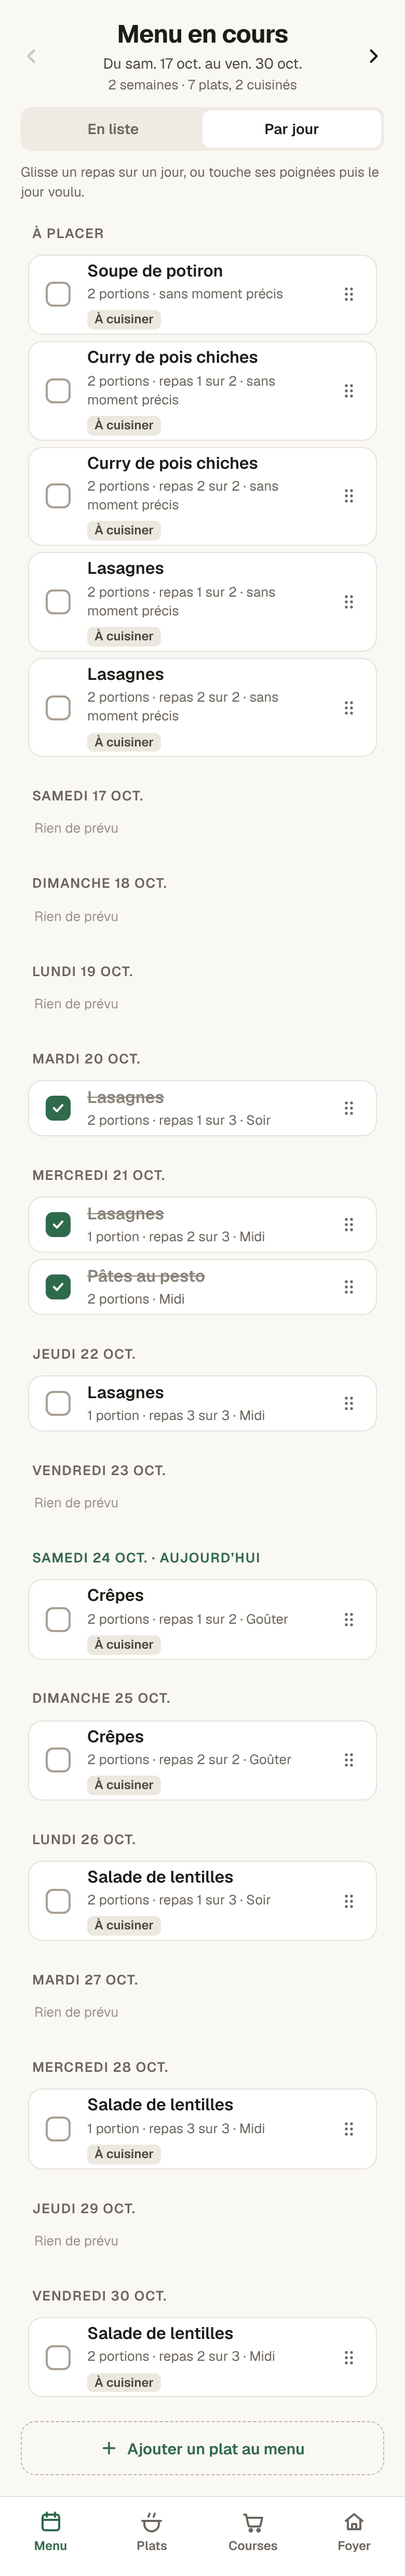
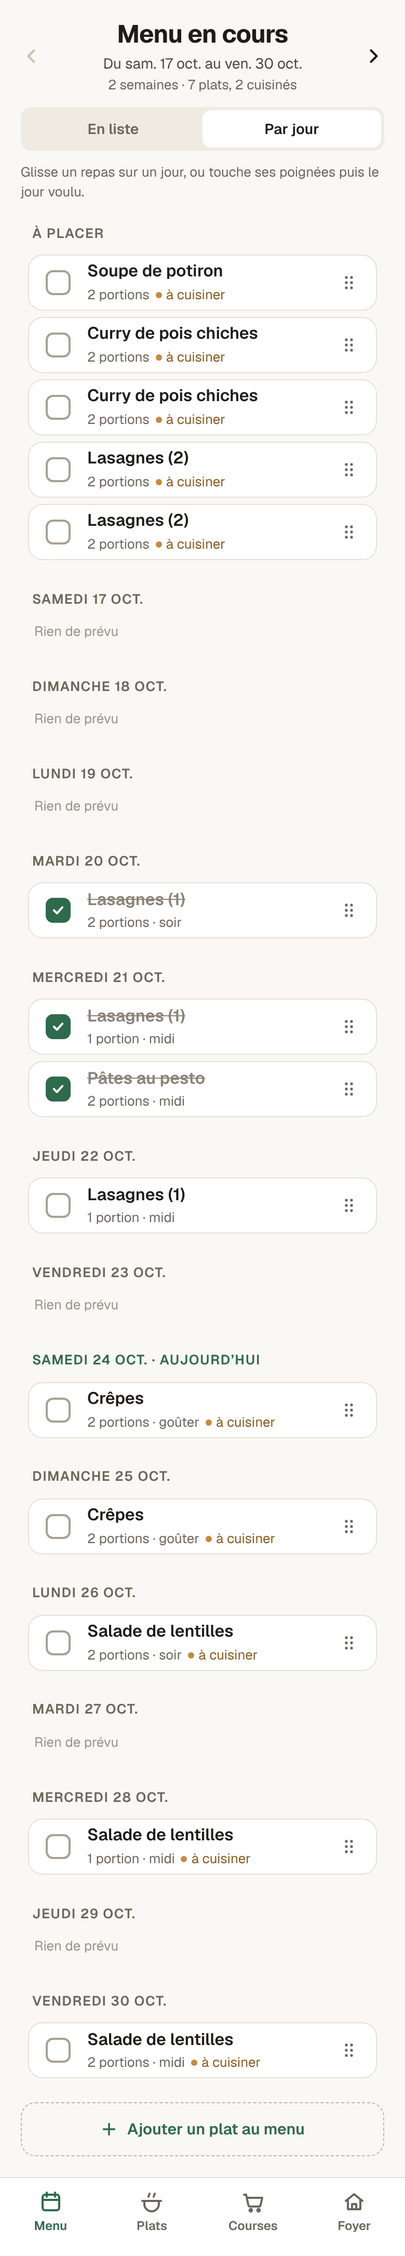
docs: add the dish-in-menu screen and harmonize list and day views
Claude-Session: https://claude.ai/code/session_01JKdr356e4cDrANtMrezvMz

diff --git a/docs/maquette/maquette.dc.html b/docs/maquette/maquette.dc.html
@@ -50,7 +50,7 @@ input,select,textarea{font:inherit;color:#1E1C19}
 <sc-for list="{{dishCards}}" as="item" hint-placeholder-count="5">
 <div style="display: flex; align-items: center; gap: 12px; background: #FFFFFF; border: 1px solid #E6E1D8; border-radius: 14px; padding: 10px 12px 10px 10px">
 <button type="button" onClick="{{item.toggle}}" aria-label="{{item.boxLabel}}" style="width: 44px; height: 44px; display: flex; align-items: center; justify-content: center; flex: none">
-<span style="width: 24px; height: 24px; border-radius: 7px; border: 2px solid {{item.boxBorder}}; background: {{item.boxBg}}; display: flex; align-items: center; justify-content: center; box-sizing: border-box">
+<span style="width: 26px; height: 26px; border-radius: 13px; border: 2px solid {{item.boxBorder}}; background: {{item.boxBg}}; display: flex; align-items: center; justify-content: center; box-sizing: border-box">
 <sc-if value="{{item.cooked}}" hint-placeholder-val="{{false}}">
 <svg width="14" height="14" viewBox="0 0 24 24" fill="none" stroke="{{item.checkColor}}" stroke-width="3.5" stroke-linecap="round" stroke-linejoin="round" aria-hidden="true"><path d="M5 12l5 5 9-10"></path></svg>
 </sc-if>
@@ -101,9 +101,9 @@ input,select,textarea{font:inherit;color:#1E1C19}
 </button>
 <button type="button" onClick="{{item.open}}" style="flex: 1; min-width: 0; min-height: 44px; display: flex; flex-direction: column; justify-content: center; gap: 2px">
 <span style="font-size: 16px; font-weight: 600; color: {{item.nameColor}}; text-decoration: {{item.nameDeco}}">{{item.name}}</span>
-<span style="display: flex; flex-wrap: wrap; align-items: center; gap: 6px; font-size: 13px; color: #6B655C"><span>{{item.portions}} · {{item.slotLabel}}</span>
+<span style="display: flex; flex-wrap: wrap; align-items: center; gap: 6px; font-size: 13px; color: #6B655C"><span>{{item.daySub}}</span>
 <sc-if value="{{item.toCook}}" hint-placeholder-val="{{false}}">
-<span style="background: #ECE8E0; color: #4A453E; border-radius: 6px; padding: 1px 7px; font-size: 12px; font-weight: 600">À cuisiner</span>
+<span style="display: flex; align-items: center; gap: 4px; color: #8A5A1F"><span style="width: 6px; height: 6px; border-radius: 3px; background: #C98A3D"></span>à cuisiner</span>
 </sc-if>
 </span>
 </button>
@@ -284,6 +284,58 @@ Ajouter un plat au menu
 </div>
 </sc-if>
 
+<!-- ===================== UN PLAT AU MENU (fournée) ===================== -->
+<sc-if value="{{isBatch}}" hint-placeholder-val="{{false}}">
+<div style="flex: 1; display: flex; flex-direction: column; min-height: 0">
+<header style="padding: 16px 12px 8px; display: flex; align-items: center; gap: 4px">
+<button type="button" onClick="{{back}}" aria-label="Retour" style="width: 44px; height: 44px; display: flex; align-items: center; justify-content: center">
+<svg width="22" height="22" viewBox="0 0 24 24" fill="none" stroke="currentColor" stroke-width="2.2" stroke-linecap="round" stroke-linejoin="round" aria-hidden="true"><path d="M15 6l-6 6 6 6"></path></svg>
+</button>
+<h1 style="margin: 0; font-size: 20px; font-weight: 700">{{bsh.name}}</h1>
+</header>
+<main style="flex: 1; overflow-y: auto; padding: 4px 20px 20px; display: flex; flex-direction: column; gap: 24px">
+<button type="button" onClick="{{bsh.toggle}}" aria-label="{{bsh.boxLabel}}" style="display: flex; align-items: center; gap: 12px; background: #FFFFFF; border: 1px solid #E6E1D8; border-radius: 14px; padding: 12px 14px; min-height: 64px; text-align: left">
+<span style="width: 26px; height: 26px; flex: none; border-radius: 13px; border: 2px solid {{bsh.boxBorder}}; background: {{bsh.boxBg}}; display: flex; align-items: center; justify-content: center; box-sizing: border-box">
+<sc-if value="{{bsh.cooked}}" hint-placeholder-val="{{true}}">
+<svg width="14" height="14" viewBox="0 0 24 24" fill="none" stroke="{{bsh.checkColor}}" stroke-width="3.5" stroke-linecap="round" stroke-linejoin="round" aria-hidden="true"><path d="M5 12l5 5 9-10"></path></svg>
+</sc-if>
+</span>
+<span style="flex: 1; min-width: 0; display: flex; flex-direction: column; gap: 2px">
+<span style="font-weight: 600">{{bsh.state}}</span>
+<span style="font-size: 13px; color: #6B655C">{{bsh.stateSub}}</span>
+</span>
+</button>
+<section style="display: flex; flex-direction: column; gap: 10px">
+<h2 style="margin: 0; font-size: 15px; font-weight: 600">Repas <span style="font-weight: 400; color: #6B655C">· {{bsh.portions}}</span></h2>
+<div style="background: #FFFFFF; border: 1px solid #E6E1D8; border-radius: 14px; overflow: hidden">
+<sc-for list="{{bsh.meals}}" as="m" hint-placeholder-count="2">
+<div style="display: flex; align-items: center; gap: 4px; padding: 4px 8px 4px 6px; border-top: 1px solid {{m.sep}}">
+<button type="button" onClick="{{m.toggle}}" aria-label="{{m.boxLabel}}" style="width: 44px; height: 44px; display: flex; align-items: center; justify-content: center; flex: none">
+<span style="width: 24px; height: 24px; border-radius: 7px; border: 2px solid {{m.boxBorder}}; background: {{m.boxBg}}; display: flex; align-items: center; justify-content: center; box-sizing: border-box">
+<sc-if value="{{m.eaten}}" hint-placeholder-val="{{false}}">
+<svg width="14" height="14" viewBox="0 0 24 24" fill="none" stroke="#FFFFFF" stroke-width="3.5" stroke-linecap="round" stroke-linejoin="round" aria-hidden="true"><path d="M5 12l5 5 9-10"></path></svg>
+</sc-if>
+</span>
+</button>
+<button type="button" onClick="{{m.open}}" style="flex: 1; min-width: 0; min-height: 44px; display: flex; flex-direction: column; justify-content: center; gap: 1px">
+<span style="font-weight: 600; color: {{m.nameColor}}; text-decoration: {{m.nameDeco}}">{{m.portions}}</span>
+<span style="font-size: 13px; color: {{m.whenColor}}">{{m.when}}</span>
+</button>
+<svg width="18" height="18" viewBox="0 0 24 24" fill="none" stroke="#9A9387" stroke-width="2" stroke-linecap="round" stroke-linejoin="round" aria-hidden="true"><path d="M9 6l6 6-6 6"></path></svg>
+</div>
+</sc-for>
+</div>
+<p style="margin: 0; font-size: 13px; color: #6B655C">Touche un repas pour choisir son jour ou le séparer.</p>
+</section>
+<a href="#" onClick="{{bsh.openRecipe}}" style="font-size: 15px; font-weight: 600; min-height: 44px; display: flex; align-items: center">Voir la recette</a>
+</main>
+<div style="padding: 12px 20px 16px; border-top: 1px solid #E6E1D8; background: #FAF8F4; display: flex; flex-direction: column; gap: 4px">
+<button type="button" onClick="{{back}}" style="height: 52px; border-radius: 14px; background: #2E6A4C; color: #FFFFFF; font-weight: 600; font-size: 16px; text-align: center">OK</button>
+<button type="button" onClick="{{bsh.remove}}" style="min-height: 44px; font-weight: 600; color: #A3341F; text-align: center">Retirer ce plat du menu</button>
+</div>
+</div>
+</sc-if>
+
 <!-- ===================== UN REPAS DU MENU : jour, moment ===================== -->
 <sc-if value="{{isMeal}}" hint-placeholder-val="{{false}}">
 <div style="flex: 1; display: flex; flex-direction: column; min-height: 0">
@@ -297,17 +349,8 @@ Ajouter un plat au menu
 <div style="display: flex; flex-direction: column; gap: 8px; background: #FFFFFF; border: 1px solid #E6E1D8; border-radius: 14px; padding: 12px 14px">
 <span style="font-weight: 600">{{meal.portions}}</span>
 <span style="font-size: 13px; color: #6B655C">{{meal.batch}}</span>
-<a href="#" onClick="{{meal.openRecipe}}" style="font-size: 14px; font-weight: 600; min-height: 32px; display: flex; align-items: center">Voir la recette</a>
+<a href="#" onClick="{{meal.openBatch}}" style="font-size: 14px; font-weight: 600; min-height: 32px; display: flex; align-items: center">{{meal.batchLink}}</a>
 </div>
-<button type="button" onClick="{{meal.toggleCooked}}" aria-pressed="{{meal.cooked}}" style="display: flex; align-items: center; gap: 12px; background: #FFFFFF; border: 1px solid #E6E1D8; border-radius: 14px; padding: 12px 14px; min-height: 64px; text-align: left">
-<span style="flex: 1; min-width: 0; display: flex; flex-direction: column; gap: 2px">
-<span style="font-weight: 600">Plat cuisiné</span>
-<span style="font-size: 13px; color: #6B655C">{{meal.cookedSub}}</span>
-</span>
-<span style="width: 46px; height: 28px; flex: none; border-radius: 14px; background: {{meal.switchBg}}; display: flex; justify-content: {{meal.switchSide}}; align-items: center; padding: 3px; box-sizing: border-box">
-<span style="width: 22px; height: 22px; border-radius: 11px; background: #FFFFFF"></span>
-</span>
-</button>
 <sc-if value="{{meal.canSplit}}" hint-placeholder-val="{{true}}">
 <section style="display: flex; flex-direction: column; gap: 10px">
 <h2 style="margin: 0; font-size: 15px; font-weight: 600">Séparer ce repas</h2>
@@ -1004,6 +1047,8 @@ class Component extends DCLogic {
     const repasLabel = (n) => n + (n > 1 ? ' repas' : ' repas');
     const green = '#2E6A4C';
     const batchOf = (id) => s.batches.filter((b) => b.id === id)[0];
+    // Nom d'une fournée : « Lasagnes (2) » quand le même plat est plusieurs fois dans le menu.
+    const batchName = (bt) => { const same = s.batches.filter((x) => x.p === bt.p && x.plat === bt.plat); return P[bt.plat].name + (same.length > 1 ? ' (' + (same.indexOf(bt) + 1) + ')' : ''); };
     const todayOff = (bt) => { const pr = s.periods.filter((x) => x.id === bt.p)[0]; return Math.round((new Date(TODAY + 'T00:00:00Z') - new Date(pr.start + 'T00:00:00Z')) / 86400000); };
     // Découpe les portions d'une recette en repas pour le foyer : 5 portions à 2 → [2, 2, 1].
     const split = (k, times) => {
@@ -1026,7 +1071,8 @@ class Component extends DCLogic {
       const siblings = s.meals.filter((x) => x.b === m.b);
       const part = siblings.length > 1 ? ' · repas ' + (siblings.indexOf(m) + 1) + ' sur ' + siblings.length : '';
       return {
-        name: p.name, portions: portionsLabel(m.portions) + part, when: when(m),
+        id: m.id, name: batchName(bt), portions: portionsLabel(m.portions) + part, when: when(m),
+        daySub: portionsLabel(m.portions) + (m.slot ? ' · ' + m.slot.toLowerCase() : ''),
         whenColor: (m.day == null && !m.slot) ? '#8A8378' : '#4A453E',
         slotLabel: m.slot || 'sans moment précis',
         carried: !!bt.carried, carriedLabel: bt.cooked != null ? 'Reste' : 'Reporté', eaten: !!m.eaten,
@@ -1045,7 +1091,7 @@ class Component extends DCLogic {
           meals: this.state.meals.map((x) => x.id === m.id ? Object.assign({}, x, { eaten: !x.eaten }) : x),
           batches: (!m.eaten && bt.cooked == null) ? this.state.batches.map((b) => b.id === bt.id ? Object.assign({}, b, { cooked: m.day != null ? m.day : todayOff(bt) }) : b) : this.state.batches
         }),
-        open: go({ screen: 'meal', mealId: m.id })
+        open: go({ screen: 'meal', mealId: m.id, mealBack: 'menu' })
       };
     });
     const eatenCount = menuItems.filter((x) => x.eaten).length;
@@ -1057,7 +1103,7 @@ class Component extends DCLogic {
       const cooked = bt.cooked != null, done = cooked && left === 0;
       const same = viewBatches.filter((x) => x.plat === bt.plat);
       return {
-        name: p.name + (same.length > 1 ? ' (' + (same.indexOf(bt) + 1) + ')' : ''), cooked: cooked,
+        id: bt.id, name: batchName(bt), cooked: cooked,
         sub: portionsLabel(total) + ' · ' + (!cooked ? 'à cuisiner' : (done ? 'tout mangé' : (left > 1 ? left + ' restantes' : left + ' restante'))),
         carried: !!bt.carried, carriedLabel: cooked ? 'Reste' : 'Reporté',
         nameColor: done ? '#8A8378' : '#1E1C19', nameDeco: done ? 'line-through' : 'none',
@@ -1073,7 +1119,7 @@ class Component extends DCLogic {
           batches: this.state.batches.map((b) => b.id === bt.id ? Object.assign({}, b, { cooked: null, cookedFrom: null }) : b),
           meals: this.state.meals.map((x) => x.b === bt.id ? Object.assign({}, x, { eaten: false }) : x)
         })),
-        open: go({ screen: 'plat', platId: bt.plat, platBack: 'menu' })
+        open: go({ screen: 'batch', batchId: bt.id })
       };
     });
     const cookedCount = dishCards.filter((x) => x.cooked).length;
@@ -1100,6 +1146,35 @@ class Component extends DCLogic {
     }).filter((g) => g.items.length || active || g.label !== 'À placer') : [];
     const movingMeal = s.meals.filter((m) => m.id === s.moveId)[0];
 
+    // Un plat au menu (fournée) : état à trois temps et ses repas
+    const cb0 = batchOf(s.batchId) || s.batches[0];
+    let bsh = {};
+    if (cb0) {
+      const card = (period && cb0.p === period.id ? dishCards : []).filter((c) => c.id === cb0.id)[0];
+      const ms = s.meals.filter((x) => x.b === cb0.id);
+      const cooked = cb0.cooked != null, left = ms.filter((x) => !x.eaten).length, done = cooked && left === 0;
+      const cookedOn = cooked ? (cb0.cookedFrom || shortDay(dateAt(batchPeriod(ms[0] ? ms[0].b : cb0.id).start, cb0.cooked))) : '';
+      bsh = {
+        name: batchName(cb0), cooked: cooked,
+        portions: portionsLabel(P[cb0.plat].servings),
+        state: !cooked ? 'À cuisiner' : (done ? 'Tout mangé' : 'Cuisiné le ' + cookedOn),
+        stateSub: !cooked ? 'Touche quand le plat est cuisiné.' : (done ? 'Touche pour remettre à cuisiner.' : 'Touche quand tout est mangé.'),
+        boxBg: done ? green : (cooked ? '#E5F0E9' : '#FFFFFF'), boxBorder: cooked ? green : '#A8A094', checkColor: done ? '#FFFFFF' : green,
+        boxLabel: card ? card.boxLabel : '', toggle: card ? card.toggle : null,
+        openRecipe: (e) => { if (e && e.preventDefault) e.preventDefault(); this.setState({ screen: 'plat', platId: cb0.plat, platBack: 'batch' }); },
+        remove: () => { this.setState({ batches: this.state.batches.filter((b) => b.id !== cb0.id), meals: this.state.meals.filter((x) => x.b !== cb0.id), screen: 'menu' }); },
+        meals: ms.map((m, i) => ({
+          portions: portionsLabel(m.portions), when: when(m), whenColor: (m.day == null && !m.slot) ? '#8A8378' : '#6B655C',
+          eaten: !!m.eaten, sep: i === 0 ? 'transparent' : '#EFEBE3',
+          nameColor: m.eaten ? '#8A8378' : '#1E1C19', nameDeco: m.eaten ? 'line-through' : 'none',
+          boxBg: m.eaten ? green : '#FFFFFF', boxBorder: m.eaten ? green : '#A8A094',
+          boxLabel: (m.eaten ? 'Marquer comme pas mangé : ' : 'Marquer comme mangé : ') + portionsLabel(m.portions),
+          toggle: (menuItems.filter((x) => x.id === m.id)[0] || {}).toggle,
+          open: go({ screen: 'meal', mealId: m.id, mealBack: 'batch' })
+        }))
+      };
+    }
+
     // Un repas du menu
     const cm = s.meals.filter((m) => m.id === s.mealId)[0] || s.meals[0];
     const setMeal = (o) => () => this.setState({ meals: this.state.meals.map((x) => x.id === cm.id ? Object.assign({}, x, o) : x) });
@@ -1110,8 +1185,9 @@ class Component extends DCLogic {
       const bt = batchOf(cm.b), p = P[bt.plat];
       const siblings = s.meals.filter((x) => x.b === cm.b);
       meal = {
-        name: p.name,
-        portions: portionsLabel(cm.portions) + (siblings.length > 1 ? ' · repas ' + (siblings.indexOf(cm) + 1) + ' sur ' + siblings.length : ''),
+        name: batchName(bt), batchLink: 'Voir ' + batchName(bt) + ' au menu',
+        openBatch: (e) => { if (e && e.preventDefault) e.preventDefault(); this.setState({ screen: 'batch', batchId: bt.id }); },
+        portions: portionsLabel(cm.portions),
         batch: 'Recette de ' + portionsLabel(p.servings) + (bt.carried ? ', reportée du menu précédent' : ''),
         openRecipe: (e) => { if (e && e.preventDefault) e.preventDefault(); this.setState({ screen: 'plat', platId: bt.plat, platBack: 'meal' }); },
         // « Plat cuisiné » vaut pour toute la fournée ; le décocher décoche aussi « mangé » sur ses repas.
@@ -1332,7 +1408,8 @@ class Component extends DCLogic {
       const sc = s.screen;
       if (sc === 'plat') this.setState({ screen: s.platBack });
       else if (sc === 'form') this.setState({ screen: isEdit ? 'plat' : 'plats', demo: null });
-      else if (sc === 'meal') this.setState({ screen: 'menu' });
+      else if (sc === 'meal') this.setState({ screen: s.mealBack || 'menu' });
+      else if (sc === 'batch') this.setState({ screen: 'menu' });
       else if (sc === 'prep') this.setState({ screen: 'menu' });
       else if (sc === 'ing') {
         // Un nouvel ingrédient laissé sans nom n'est pas gardé.
@@ -1348,7 +1425,7 @@ class Component extends DCLogic {
     const tab = (t) => go({ screen: t, tab: t, search: '', demo: null });
 
     return {
-      isMenu: s.screen === 'menu', isAddPick: s.screen === 'addPick', isAddRecap: s.screen === 'addRecap', isMeal: s.screen === 'meal',
+      isMenu: s.screen === 'menu', isAddPick: s.screen === 'addPick', isAddRecap: s.screen === 'addRecap', isMeal: s.screen === 'meal', isBatch: s.screen === 'batch', bsh: bsh,
       isPlats: s.screen === 'plats', isPlat: s.screen === 'plat', isForm: s.screen === 'form',
       isCourses: s.screen === 'courses', isFoyer: s.screen === 'foyer', isInvite: s.screen === 'invite',
       tabMenu: tab('menu'), tabPlats: tab('plats'), tabCourses: tab('courses'), tabFoyer: tab('foyer'),

diff --git a/docs/maquette/README.md b/docs/maquette/README.md
@@ -21,13 +21,13 @@ Si la maquette change sur claude.ai, il faut refaire la copie et les captures da
 
 | Capture | Écran | Tickets |
 |---|---|---|
-| [01-menu-liste](ecrans/01-menu-liste.png) | Accueil : menu en cours, vue « En liste » : une carte par plat ajouté, case à trois états (à cuisiner, cuisiné, tout mangé), portions restantes, badges « Reporté » et « Reste » | #28, #30 |
-| [02-menu-par-jour](ecrans/02-menu-par-jour.png) | Accueil, vue « Par jour » : les repas, case « mangé », badge « À cuisiner », « À placer » puis tous les jours du menu | #29 |
+| [01-menu-liste](ecrans/01-menu-liste.png) | Accueil : menu en cours, vue « En liste » : une carte par plat ajouté, case ronde à trois états (à cuisiner, cuisiné, tout mangé), portions restantes, badges « Reporté » et « Reste » | #28, #30 |
+| [02-menu-par-jour](ecrans/02-menu-par-jour.png) | Accueil, vue « Par jour » : les repas (« Lasagnes (1) »), case carrée « mangé », point « à cuisiner », « À placer » puis tous les jours du menu | #29 |
 | [03-menu-deplacer-repas](ecrans/03-menu-deplacer-repas.png) | Vue « Par jour » après la poignée ⋮⋮ : boutons « Placer ici » | #29 |
 | [04-preparer-menu-suivant](ecrans/04-preparer-menu-suivant.png) | Préparer le menu suivant : durée, repas à reporter en deux groupes (« Pas cuisinés », « Restes ») | #30 |
 | [05-ajouter-choisir-plats](ecrans/05-ajouter-choisir-plats.png) | Ajouter au menu, étape 1 : choisir plusieurs plats | #28 |
 | [06-ajouter-recap](ecrans/06-ajouter-recap.png) | Ajouter au menu, étape 2 : × N par recette (N cartes à cuisiner) et découpe en repas | #28 |
-| [07-repas](ecrans/07-repas.png) | Fiche repas : « Plat cuisiné », « Séparer ce repas », jour et moment facultatifs, retirer le repas | #29 |
+| [07-repas](ecrans/07-repas.png) | Fiche repas (depuis Par jour) : lien vers le plat au menu, « Séparer ce repas », jour et moment facultatifs, retirer le repas | #29 |
 | [08-plats](ecrans/08-plats.png) | Onglet Plats : liste, recherche, badge « Au menu » | #25 |
 | [09-fiche-plat](ecrans/09-fiche-plat.png) | Fiche du plat : portions, ingrédients, recette, macros | #25 (bouton « Ajouter au menu » : #28) |
 | [10-modifier-plat](ecrans/10-modifier-plat.png) | Modifier un plat (et le supprimer, en bas) | #25 |
@@ -37,6 +37,7 @@ Si la maquette change sur claude.ai, il faut refaire la copie et les captures da
 | [14-courses](ecrans/14-courses.png) | Onglet Courses : lignes par rayon, paquets, « Courses terminées » | #32 |
 | [15-foyer](ecrans/15-foyer.png) | Mon foyer : membres, nombre de personnes, jour des courses, durée du menu | #9, #28 |
 | [16-inviter](ecrans/16-inviter.png) | Inviter dans le foyer | #8 (fait) |
+| [17-plat-au-menu](ecrans/17-plat-au-menu.png) | Plat au menu (depuis En liste) : état à trois temps, ses repas avec case « mangé », voir la recette, retirer du menu | #28 |
 
 Barre du bas commune à tous les écrans : Menu, Plats, Courses, Foyer.
 
